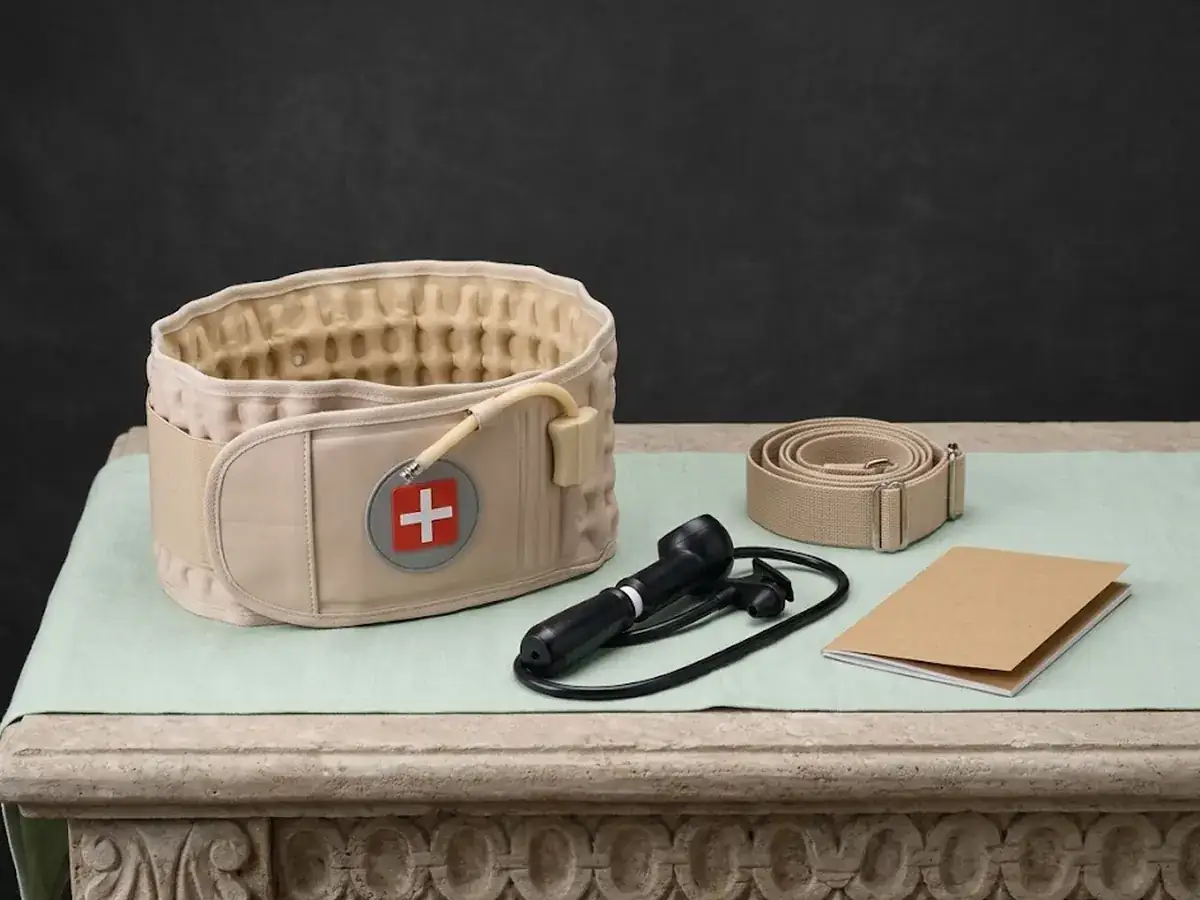
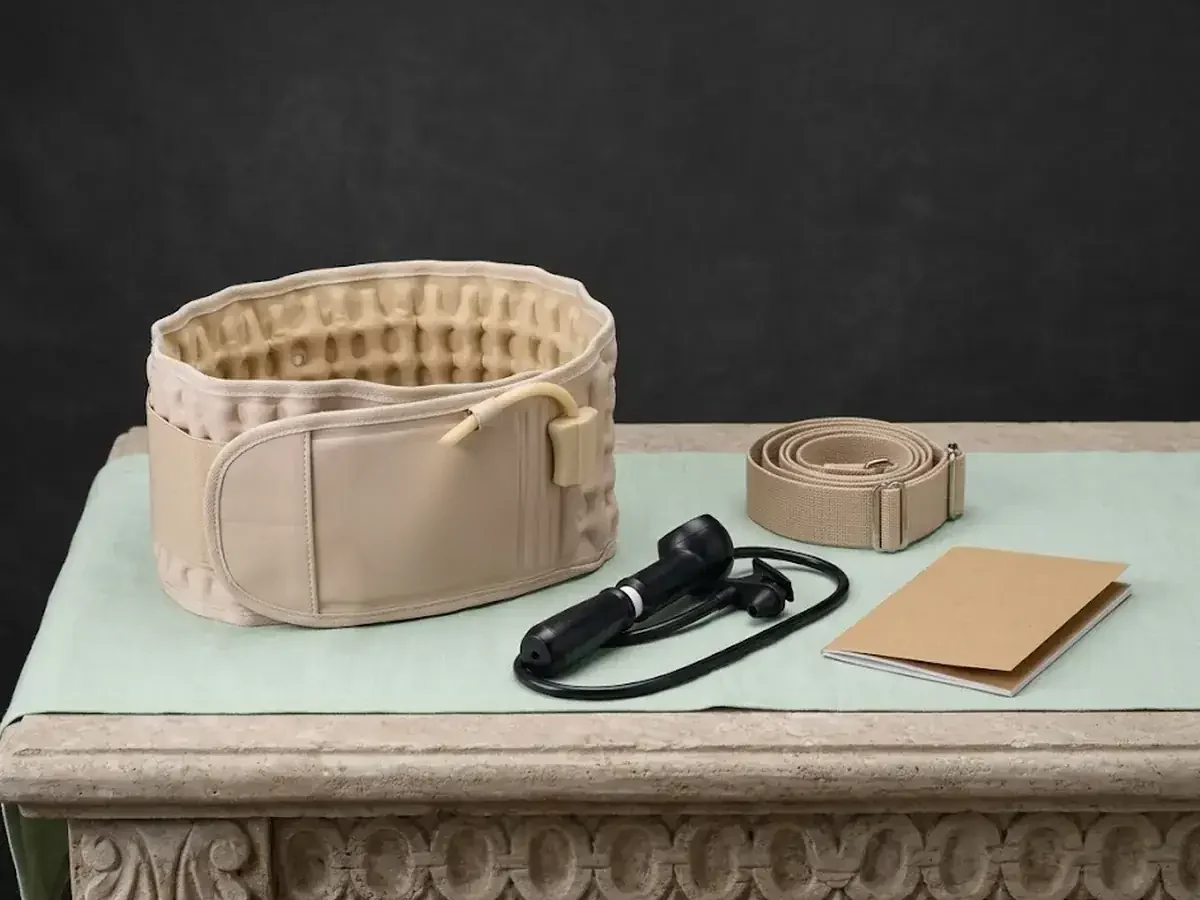
Remove the red medical plus from the Lumba photos so the belt is not read as a hospital mark.

Changed region(s): [[0.2775, 0.4978, 0.4008, 0.6533]]

diff --git a/frontend/src/data/images.ts b/frontend/src/data/images.ts
@@ -20,17 +20,17 @@ const set = (key: "lumba" | "posta" | "calma"): ProductImageSet => ({
 });
 
 export const IMAGES = {
-  hero: "/images/hero-kenidoux-collection.webp",
+  hero: "/images/hero-kenidoux-collection-2.webp",
   bundle: "/images/bundle-kit.svg",
   home: {
     struggle: "/images/home-section-1.webp",
     compare: "/images/home-section-2.svg",
-    unboxing: "/images/about-unbox.webp",
+    unboxing: "/images/about-unbox-2.webp",
   },
   about: {
-    hub: "/images/about-hub.webp",
-    pillars: "/images/about-pillars.webp",
-    trust: "/images/about-trust.webp",
+    hub: "/images/about-hub-2.webp",
+    pillars: "/images/about-pillars-2.webp",
+    trust: "/images/about-trust-2.webp",
   },
   ugc: ["/images/ugc-1.svg", "/images/ugc-2.svg", "/images/ugc-3.svg"],
   badges: {
@@ -40,10 +40,11 @@ export const IMAGES = {
   products: {
     "kenidoux-lumba": {
       ...set("lumba"),
-      mechanism: "/images/lumba/how.webp",
-      lifestyle: "/images/lumba/drive.webp",
-      kit: "/images/lumba/kit.webp",
-      sections: ["/images/lumba/salon.webp", "/images/lumba/how.webp", "/images/lumba/kit.webp"],
+      main: "/images/lumba/main-2.webp",
+      mechanism: "/images/lumba/how-2.webp",
+      lifestyle: "/images/lumba/drive-2.webp",
+      kit: "/images/lumba/kit-2.webp",
+      sections: ["/images/lumba/salon-2.webp", "/images/lumba/how-2.webp", "/images/lumba/kit-2.webp"],
     },
     "kenidoux-posta": {
       ...set("posta"),
